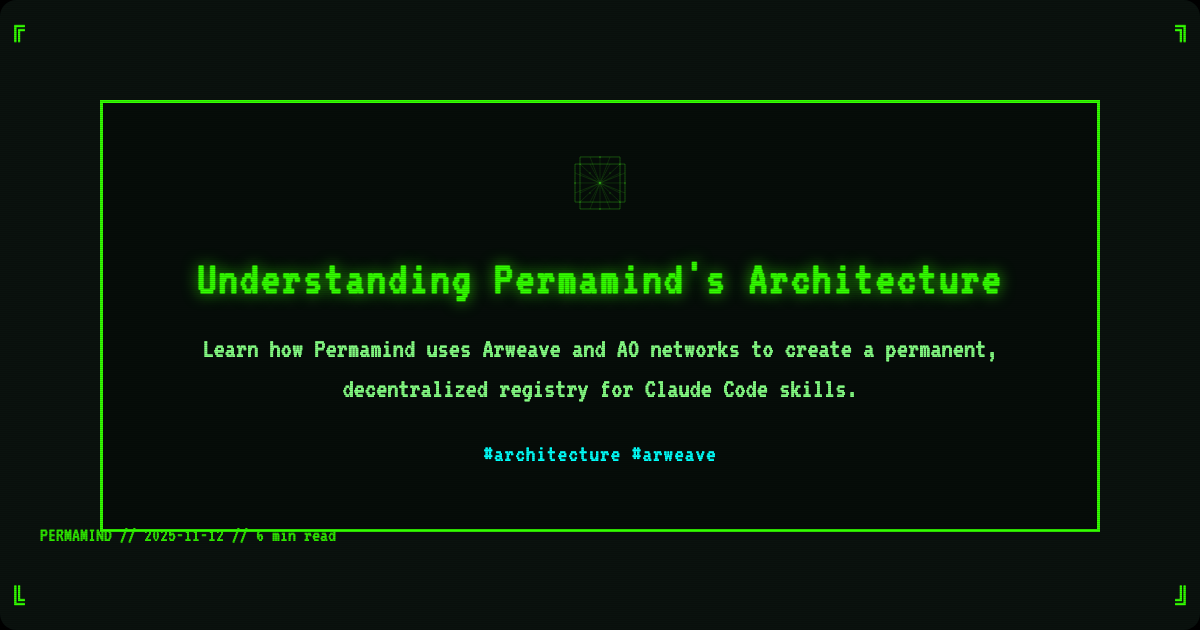
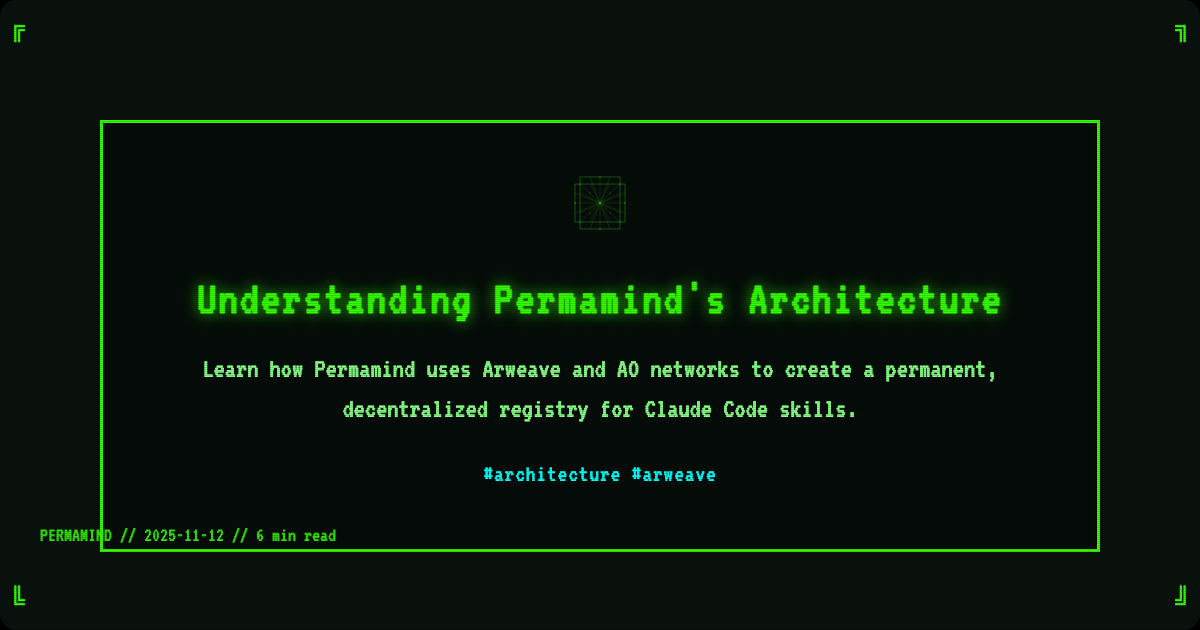
Fix: Set equal top/bottom margins (80px) for proper visual balance
Changed from asymmetric margins (60px top, 200px bottom) to symmetric
margins (80px top, 80px bottom). This ensures the green border is
centered vertically in the image with equal spacing on both sides,
regardless of content height or tag count.

Configuration:
- Top margin: 80px
- Bottom margin: 80px (symmetric)
- All padding: 40px (uniform)
- Bottom brand: 80px from bottom

Regenerated all blog preview images with balanced spacing.

🤖 Generated with [Claude Code](https://claude.com/claude-code)

diff --git a/frontend/create-blog-preview.js b/frontend/create-blog-preview.js
@@ -94,7 +94,7 @@ async function createBlogPreview(blogPost) {
         .ascii-border {
             border: 3px solid #33ff00;
             padding: 40px;
-            margin: 60px auto 200px auto;
+            margin: 80px auto 80px auto;
             max-width: 1000px;
             text-align: center;
             background: rgba(0, 0, 0, 0.3);
